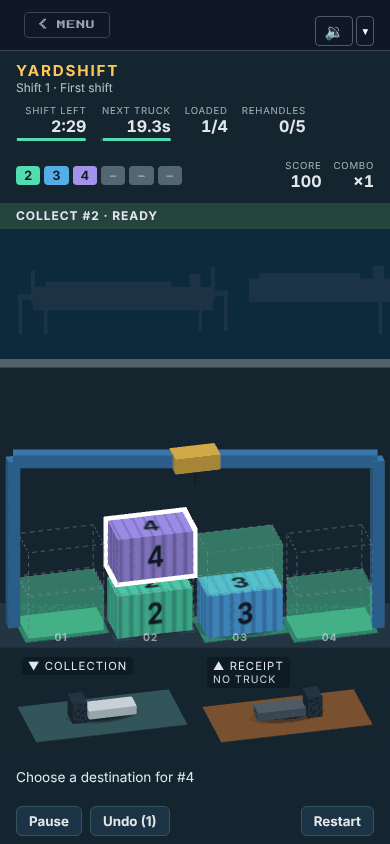
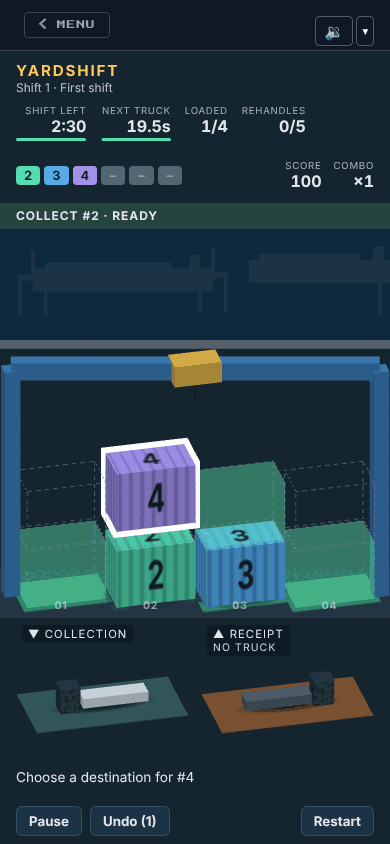
Yardshift playtest follow-up: harbour strip behind the gantry and taller stacks on phone, trucks sized to the bay, rejection message clears on a selection change, recaptured screenshots and cover
Claude-Session: https://claude.ai/code/session_0155BNjwPfcnFQSyZNLHGLyJ

Changed region(s): [[0.0, 0.4005, 1.0, 0.8934], [0.1846, 0.1232, 0.2154, 0.154]]

diff --git a/src/sims/yardshift/composables/useYardScene.ts b/src/sims/yardshift/composables/useYardScene.ts
@@ -356,20 +356,25 @@ export function useYardScene(
     const group = new THREE.Group()
     const { layout } = vm
     const colW = layout.columns[0]?.w ?? 80
-    const cw = Math.min(colW * 0.86, 120) / PX_PER_UNIT
-    const cd = cw * 0.55
+    const cw = Math.min(colW * 0.9, 120) / PX_PER_UNIT
+    const cd = cw * 0.58
     // Fit the stacks at full capacity (plus the gantry over them) to the yard height, so the yard is the hero.
     const baseY = layout.yard.y + layout.yard.h - 22
     const rise = (baseY - layout.yard.y) * 0.8
     const tierPx = rise / (vm.capacity + 1.5) - (cd * PX_PER_UNIT * Math.sin(PITCH)) / (vm.capacity + 1.5)
-    const ch = Math.min(cw * 0.62, Math.max(cw * 0.36, tierPx / Math.cos(PITCH) / PX_PER_UNIT))
+    const ch = Math.min(cw * 0.8, Math.max(cw * 0.36, tierPx / Math.cos(PITCH) / PX_PER_UNIT))
     const colBase = layout.columns.map((col) => groundAt(col.x + col.w / 2, baseY, width, height))
     const first = colBase[0] ?? new THREE.Vector3()
     const last = colBase[colBase.length - 1] ?? first
     const run = Math.hypot(last.x - first.x, last.z - first.z) || 1
     const dir = { x: (last.x - first.x) / run, z: (last.z - first.z) / run }
 
-    buildBackdrop(group, groundAt(layout.yard.x + layout.yard.w / 2, layout.yard.y + layout.yard.h * 0.3, width, height), dir)
+    // The harbour is a strip behind the gantry, not a band of its own: the quay edge sits just above the gantry top
+    // on screen, so the stacks at full capacity and the crane take the yard (playtest fix 8).
+    const gantryTop = new THREE.Vector3(colBase[0]?.x ?? 0, (vm.capacity + 1.2) * ch * 1.04 + ch * 0.9, colBase[0]?.z ?? 0).project(camera)
+    const gantryTopPx = ((1 - gantryTop.y) / 2) * height
+    const quayPx = Math.max(layout.yard.y + 4, gantryTopPx - 8)
+    buildBackdrop(group, groundAt(layout.yard.x + layout.yard.w / 2, quayPx, width, height), dir)
 
     const yardCentre = groundAt(layout.yard.x + layout.yard.w / 2, baseY, width, height)
     const yardPad = boxAt(group, run + cw * 2, 0.02, cd * 2.2, standard(COLOURS.ground), yardCentre.x, -0.02, yardCentre.z)
@@ -384,8 +389,11 @@ export function useYardScene(
     const collect = groundAt(layout.collection.x + layout.collection.w / 2, layout.collection.y + layout.collection.h * 0.66, width, height)
     const receiptBed = groundAt(layout.receipt.x + layout.receipt.w / 2, layout.receipt.y + layout.receipt.h * 0.66, width, height)
     // Trucks and the receipt cargo shrink to fit a short bay (desktop), so they stay under the bay label.
-    const cargoPx = (ch * Math.cos(PITCH) + cd * Math.sin(PITCH) + ch) * PX_PER_UNIT
-    const k = Math.min(1, Math.max(0.55, (layout.receipt.h * 0.6) / Math.max(1, cargoPx)))
+    // k scales the truck and its cargo against a yard container: the cargo fills about 60 % of the truck length,
+    // and the loaded truck's height on screen fits the bay under its label row.
+    const cargoPx = (ch * Math.cos(PITCH) + cd * Math.sin(PITCH) + ch * 0.6) * PX_PER_UNIT
+    const bayLen = (layout.receipt.w * 0.9) / PX_PER_UNIT
+    const k = Math.max(0.3, Math.min((bayLen * 0.7 * 0.6) / cw, (layout.receipt.h - 34) * 0.6 / Math.max(1, cargoPx), 1.4))
     let receiptBayMat = standard(COLOURS.receiptBay)
     let receiptBedMat = standard(COLOURS.receiptTruck, 0.6)
     const shadowSpots: { x: number; z: number; w: number; d: number }[] = []
@@ -397,7 +405,8 @@ export function useYardScene(
       const bayMat = standard(bayColour)
       if (facing === 1) receiptBayMat = bayMat
       boxAt(group, bw, 0.02, cd * 1.8, bayMat, centre.x, 0, centre.z)
-      const tl = Math.min(bw * 0.8, cw * 1.6 * k)
+      // As long as the bay allows (a 20 ft box on a long chassis on a desktop); heights follow k.
+      const tl = Math.min(bw * 0.85, Math.max(cw * 1.6 * k, bw * 0.6))
       const bedMat = standard(truckColour, 0.6)
       if (facing === 1) receiptBedMat = bedMat
       boxAt(group, tl * 0.72, ch * 0.35 * k, cd * 0.9 * k, bedMat, centre.x - facing * tl * 0.12, ch * 0.3 * k, centre.z)

diff --git a/src/sims/yardshift/store/yardshiftStoreAnnounce.test.ts b/src/sims/yardshift/store/yardshiftStoreAnnounce.test.ts
@@ -17,3 +17,20 @@ describe('Yardshift store announcement', () => {
     expect(store.announcement).toBe('')
   })
 })
+
+describe('Yardshift store rejection message', () => {
+  beforeEach(() => setActivePinia(createPinia()))
+
+  it('a rejection message clears when the selection changes (selecting the receipt truck)', () => {
+    const store = useYardshiftStore()
+    store.loadLevel(4)
+    store.dispatch({ type: 'rehandle', from: 0, to: 4 })
+    store.dispatch({ type: 'collect', from: 0 })
+    store.dispatch({ type: 'rehandle', from: 2, to: 4 })
+    store.key('2')
+    expect(store.message).toBe('Receive truck #8 first.')
+    store.key('r')
+    expect(store.ui.selection).toBe('receipt')
+    expect(store.message).toBe('')
+  })
+})

diff --git a/src/sims/yardshift/modules/presentation.ts b/src/sims/yardshift/modules/presentation.ts
@@ -60,7 +60,7 @@ const BAY_GAP = 12
 export function layoutFor(stackCount: number, vp: Viewport): Layout {
   const innerW = Math.max(0, vp.width - 2 * SIDE)
   // The yard is the hero (playtest fix 8): the bays take a fixed share under it, with a small gap.
-  const bayH = Math.round(Math.min(vp.height * 0.22, Math.max(84, vp.height * 0.18)))
+  const bayH = Math.round(Math.min(vp.height * 0.25, Math.max(84, vp.height * 0.24)))
   const yardTop = Math.round(vp.height * 0.02)
   const bayBottom = Math.max(yardTop, vp.height - 8)
   const bayTop = Math.max(yardTop, bayBottom - bayH)

diff --git a/src/sims/yardshift/store/yardshiftStore.ts b/src/sims/yardshift/store/yardshiftStore.ts
@@ -284,6 +284,8 @@ export const useYardshiftStore = defineStore('yardshift', () => {
   /** Forward one raw UI event to `input`. */
   function send(event: UiEvent): void {
     const r = input(ui.value, event, state.value)
+    // A new selection answers the last rejection, so its message gives way to the live hint.
+    if (r.ui.selection !== ui.value.selection) message.value = ''
     ui.value = r.ui
     if (r.action) apply(r.action)
   }

diff --git a/src/sims/yardshift/yardshift-AGENTS.md b/src/sims/yardshift/yardshift-AGENTS.md
@@ -66,16 +66,18 @@ rehandle the ones in the way, clear the yard. Behavioural baseline: the V20 prot
 - Legal destinations: a translucent green ghost container at the drop height of each (`Built.ghosts`, one
   `InstancedMesh`), as well as the green column pad. Capacity: dashed outlines of every slot up to `capacity` (one
   merged `LineSegments`, `LineDashedMaterial`), and `view.stackLabels` ("01".."0n") drawn under each column.
-- Fit: `layoutFor` gives the bays a fixed share (about 18 to 22 % of the surface) right under the yard (6 px gap);
-  the scene sizes containers from the column width and the yard height at full capacity (`ch` 0.36 to 0.62 of `cw`).
-  Trucks and the receipt cargo scale down (`Built.cargoScale`, 0.55 to 1) to fit a short desktop bay.
+- Fit: `layoutFor` gives the bays a fixed share (24 to 25 % of the surface) right under the yard (6 px gap);
+  the scene sizes containers from the column width (0.9) and the yard height at full capacity (`ch` 0.36 to 0.8 of
+  `cw`). The harbour backdrop is a strip behind the gantry: its quay edge is placed just above the gantry top on
+  screen (projected), not at a fixed share of the yard. Trucks take 60 to 85 % of the bay length; their heights and the
+  receipt cargo scale by `Built.cargoScale` (0.3 to 1.4) so the loaded truck fits under the bay label.
 - Bay labels sit top-left on a scrim pill; `arrowBox` puts the mandatory arrow beside the cab (bay's right end), so
   it never covers the cargo number. The empty receipt bed is grey (no truck). The bonus glint flashes the body, never
   the label, so numbers stay dark navy; the open bonus window draws a gold countdown ring round the first queue chip
   (`view.bonus.fraction`). The "+250 · +5s" float starts 36 px above the collection bay.
 - At deadline 0 a stack tap sends `collect(from)`, which the engine rejects with "Receive truck #n first."
   (`receive-first`), so the message and the invalid cue fire. The store clears the arrival announcement on
-  `deadline-zero`. With no truck waiting the incoming band reads "COLLECT #n · READY".
+  `deadline-zero`, and clears a rejection message whenever an input changes the selection (`send`). With no truck waiting the incoming band reads "COLLECT #n · READY".
 - Pause keeps no focus ring after a click (`:focus-visible` only); the timeout message is "Shift time ran down before
   the yard was clear." (the fail title is "Time's up").
 - Tests: `modules/playtestFixes.test.ts`, `store/yardshiftStoreAnnounce.test.ts`. Before and after phone captures:
